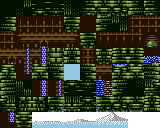
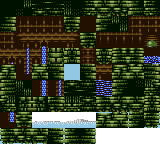
CI1 object layout and better looking water

diff --git a/src/character_collision.cpp b/src/character_collision.cpp
@@ -296,7 +296,7 @@ void TA_Character::updateWaterCollision()
     if(water != newWater && newWater == (velocity.y > 0) && !ground) {
         links.objectSet->spawnObject<TA_Splash>(position + TA_Point(14, 22));
     }
-    if(water && !newWater && velocity.y < 0) {
+    if(water && !newWater && velocity.y < 0 && !spring) {
         jumpSpeed = (remoteRobot ? remoteRobotJumpSpeed : jmp) * (water ? 0.7 : 1);
         jumpReleased = jump;
         jump = true;
